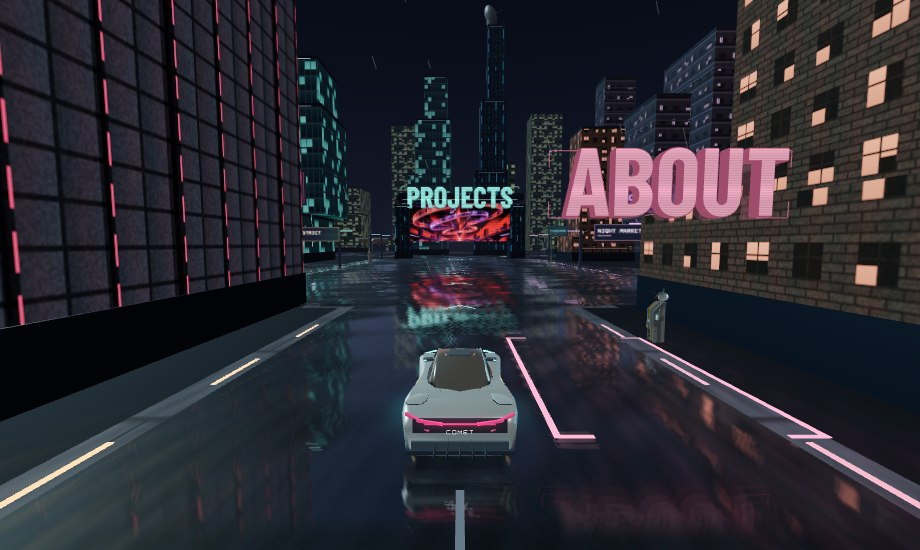
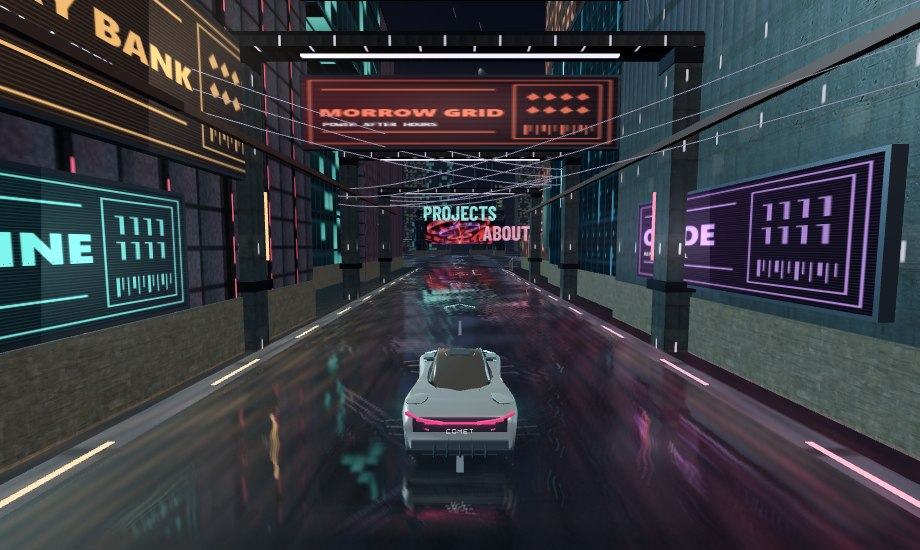
Texture Portfolio City street-level facades

diff --git a/drive/js/portfolio-city.js b/drive/js/portfolio-city.js
@@ -5,8 +5,8 @@
 })(typeof globalThis !== 'undefined' ? globalThis : this, function() {
   'use strict';
 
-  const concreteBump = typeof document !== 'undefined' && document.currentScript?.src
-    ? new URL('../assets/portfolio/concrete-bump.jpg', document.currentScript.src).href : 'assets/portfolio/concrete-bump.jpg';
+  const driveBase = typeof document !== 'undefined' && document.currentScript?.src
+    ? new URL('../', document.currentScript.src).href : '';
   const edge = 211, roadHalfWidth = 11;
   const spawn = {x:0, z:-103, heading:0};
   const routeSamples = [{x:spawn.x, y:0, z:spawn.z, tx:0, tz:1}];
@@ -229,7 +229,57 @@
     return texture;
   }
 
-  function facadeMaterial(THREE,style,grime) {
+  function tileWallMaterial(THREE,material,facade,surface) {
+    if (!facade && !surface) return material;
+    material.customProgramCacheKey = () => `wall:${Boolean(facade)}:${Boolean(surface)}`;
+    material.onBeforeCompile = shader => {
+      const point = 'districtPoint.xy';
+      const facadeUv = `(${point} / districtPeriod)`;
+      let uniforms = '';
+      if (facade) {
+        uniforms += 'uniform vec2 districtPeriod;\n';
+        shader.uniforms.districtPeriod = {value:new THREE.Vector2(facade.width,facade.height)};
+      }
+      if (surface) {
+        uniforms += 'uniform sampler2D districtSurface; uniform vec2 districtSurfacePeriod;\n'
+          + 'uniform vec4 districtSurfaceMix; uniform float districtSurfaceReady;\n';
+        shader.uniforms.districtSurface = {value:surface.texture};
+        shader.uniforms.districtSurfacePeriod = {value:new THREE.Vector2(surface.width,surface.height)};
+        shader.uniforms.districtSurfaceMix = {value:new THREE.Vector4(surface.opacity,surface.fadeStart,surface.fadeEnd,surface.tint)};
+        shader.uniforms.districtSurfaceReady = surface.ready;
+      }
+      shader.vertexShader = `varying vec4 districtPoint;\n${shader.vertexShader}`
+        .replace('#include <uv_vertex>',`#include <uv_vertex>
+          vec3 partSize = vec3(1.0);
+          float baseHeight = modelMatrix[3].y;
+          #ifdef USE_INSTANCING
+            partSize = vec3(length(instanceMatrix[0].xyz),length(instanceMatrix[1].xyz),length(instanceMatrix[2].xyz));
+            baseHeight += instanceMatrix[3].y;
+          #endif
+          bool isWall = abs(normal.y) < .5;
+          vec2 faceSize = isWall ? vec2(abs(normal.x) > .5 ? partSize.z : partSize.x,partSize.y) : partSize.xz;
+          districtPoint = vec4(uv * faceSize, baseHeight + position.y * partSize.y, isWall ? 1.0 : 0.0);`);
+      shader.fragmentShader = `varying vec4 districtPoint;\n${uniforms}${shader.fragmentShader}`;
+      if (facade) {
+        shader.fragmentShader = shader.fragmentShader
+          .replace('#include <map_fragment>',THREE.ShaderChunk.map_fragment.replace('vUv',facadeUv))
+          .replace('#include <emissivemap_fragment>',THREE.ShaderChunk.emissivemap_fragment.replace('vUv',facadeUv))
+          .replace('#include <bumpmap_pars_fragment>',THREE.ShaderChunk.bumpmap_pars_fragment.replace(/\bvUv\b/g,`(${facadeUv} * 4.8)`));
+      }
+      if (surface) {
+        // Blend the cladding into the wall color before lighting.
+        // Upper windows keep their own independent emissive pattern.
+        shader.fragmentShader = shader.fragmentShader.replace('#include <color_fragment>',`#include <color_fragment>
+          vec3 cladding = sRGBToLinear(texture2D(districtSurface, ${point} / districtSurfacePeriod)).rgb;
+          float heightBlend = 1.0 - smoothstep(districtSurfaceMix.y,districtSurfaceMix.z,districtPoint.z);
+          float claddingBlend = districtSurfaceMix.x * districtSurfaceReady * districtPoint.w * heightBlend;
+          diffuseColor.rgb = mix(diffuseColor.rgb,cladding * districtSurfaceMix.w,claddingBlend);`);
+      }
+    };
+    return material;
+  }
+
+  function facadeMaterial(THREE,style,grime,surface) {
     const facade = facades[style];
     const size = 128, bytes = size*size*4;
     const diffuse = new Uint8Array(bytes), emission = new Uint8Array(bytes);
@@ -307,24 +357,8 @@
     const material = new THREE.MeshStandardMaterial({map:repeatedTexture(THREE,diffuse,size),
       emissiveMap:repeatedTexture(THREE,emission,size),emissive:0xffffff,emissiveIntensity:1.1,
       roughness:facade.roughness,metalness:.21,bumpMap:grime,bumpScale:.045});
-    // Repeat material details in world metres so a small storefront and a tower
-    // can share an instanced material without either one stretching its windows.
-    material.onBeforeCompile = shader => {
-      shader.uniforms.districtPeriod = {value:new THREE.Vector2(facade.width,facade.height)};
-      shader.vertexShader = `varying vec2 districtUv; uniform vec2 districtPeriod;\n${shader.vertexShader}`
-        .replace('#include <uv_vertex>',`#include <uv_vertex>
-          vec3 partSize = vec3(1.0);
-          #ifdef USE_INSTANCING
-            partSize = vec3(length(instanceMatrix[0].xyz),length(instanceMatrix[1].xyz),length(instanceMatrix[2].xyz));
-          #endif
-          vec2 faceSize = abs(normal.y) > .5 ? partSize.xz : vec2(abs(normal.x) > .5 ? partSize.z : partSize.x,partSize.y);
-          districtUv = uv * faceSize / districtPeriod;`);
-      shader.fragmentShader = `varying vec2 districtUv;\n${shader.fragmentShader}`
-        .replace('#include <map_fragment>',THREE.ShaderChunk.map_fragment.replace('vUv','districtUv'))
-        .replace('#include <emissivemap_fragment>',THREE.ShaderChunk.emissivemap_fragment.replace('vUv','districtUv'))
-        .replace('#include <bumpmap_pars_fragment>',THREE.ShaderChunk.bumpmap_pars_fragment.replace(/\bvUv\b/g,'(districtUv * 4.8)'));
-    };
-    return material;
+    // Repeat every tile in world metres so one material fits buildings of different sizes.
+    return tileWallMaterial(THREE,material,facade,surface);
   }
 
   function surfaceTexture(THREE,slabs) {
@@ -528,15 +562,42 @@
       }
     }
 
-    const grime = typeof document === 'undefined' ? null : new THREE.TextureLoader().load(concreteBump);
+    const loader = typeof document === 'undefined' ? null : new THREE.TextureLoader();
+    const wallTextures = [];
+    let disposed = false;
+    function loadWallTexture(file,{width,height,opacity,fadeStart=3.5,fadeEnd=7.5,tint}) {
+      if (!loader) return null;
+      const ready = {value:0};
+      const texture = loader.load(driveBase+'assets/portfolio-type/'+file,loaded => {
+        if (disposed) loaded.dispose();
+        else ready.value = 1;
+      });
+      texture.name = file;
+      texture.wrapS = texture.wrapT = THREE.RepeatWrapping;
+      wallTextures.push(texture);
+      return {texture,ready,width,height,opacity,fadeStart,fadeEnd,tint};
+    }
+    const grime = loader?.load(driveBase+'assets/portfolio/concrete-bump.jpg') || null;
     if (grime) grime.wrapS = grime.wrapT = THREE.RepeatWrapping;
-    const facadeMaterials = facades.map((_,style) => facadeMaterial(THREE,style,grime));
+    const boardConcrete = loadWallTexture('board-concrete.webp',{width:2.8,height:2.3,opacity:.88,tint:.66});
+    const servicePanels = loadWallTexture('service-panels.webp',{
+      width:4.8,height:3.7,opacity:.81,fadeStart:7.5,fadeEnd:15,tint:.74
+    });
+    const marketTile = loadWallTexture('market-tile.webp',{width:1.85,height:1.15,opacity:.89,tint:.68});
+    const concreteFooting = tileWallMaterial(THREE,
+      new THREE.MeshStandardMaterial({color:surfaceColor(0x44434a),roughness:.91}),null,boardConcrete);
+    const marketFooting = tileWallMaterial(THREE,
+      new THREE.MeshStandardMaterial({color:surfaceColor(0x554947),roughness:.68}),null,marketTile);
+    const facadeMaterials = facades.map((_,style) => facadeMaterial(THREE,style,grime,
+      style===3 || style===5 ? servicePanels : null));
     for (const [index,b] of buildings.entries()) {
       const {name,light:color}=facades[b.style];
       instance('portfolio-building-'+name,facadeMaterials[b.style],b.x,b.baseY+b.height/2,b.z,b.width,b.height,b.depth);
       const detailed = b.detail && b.width > 3;
       if (detailed && !b.baseY) {
-        instance('portfolio-footings',materials.steel,b.x,1.1,b.z,b.width+.16,2.2,b.depth+.18);
+        const tiledMarket = b.style===1 || (b.style===2 && b.x<0 && b.z<55);
+        const footingName = tiledMarket ? 'portfolio-market-tile-footings' : 'portfolio-board-concrete-footings';
+        instance(footingName,tiledMarket ? marketFooting : concreteFooting,b.x,1.1,b.z,b.width+.16,2.2,b.depth+.18);
         if (b.style===1 || b.style===2 || b.style===7) {
           for (const side of [-1,1]) {
             instance('portfolio-shop-awnings',b.style===1 ? materials.copper : materials.metal,b.x,3.3,b.z+side*(b.depth/2+.65),b.width*.89,.46,1.7);
@@ -676,7 +737,11 @@
       rainGeometry.attributes.position.needsUpdate=true;
     }
     update({position:spawn},0);
-    return {update};
+    function dispose() {
+      disposed = true;
+      for (const texture of wallTextures) texture.dispose();
+    }
+    return {update,dispose};
   }
 
   return {edge, roadHalfWidth, spawn, routeSamples, stops, buildings, networkRoads, highwaySegments,

diff --git a/drive/credits.html b/drive/credits.html
@@ -6,7 +6,7 @@
 <a href="./">← Back to driving</a>
 <h1>Model credits</h1>
 <h2>Portfolio City</h2>
-<p>Street props by Quaternius include models from the <a href="https://quaternius.com/packs/cyberpunkgamekit.html">Cyberpunk Game Kit</a>. The asphalt and concrete textures come from <a href="https://polyhaven.com/">Poly Haven</a>. These models and textures are CC0. See the <a href="assets/portfolio/SOURCE.md">asset sources</a> and <a href="assets/portfolio-type/SOURCE.md">display art and type credits</a>.</p>
+<p>Street props by Quaternius include models from the <a href="https://quaternius.com/packs/cyberpunkgamekit.html">Cyberpunk Game Kit</a>. The asphalt color and concrete bump maps come from <a href="https://polyhaven.com/">Poly Haven</a>. These models and textures are CC0. See the <a href="assets/portfolio/SOURCE.md">asset sources</a> and the <a href="assets/portfolio-type/SOURCE.md">display art, wall textures and type credits</a>.</p>
 <h2>Garage cars</h2>
 <p>This work is based on <a href="https://sketchfab.com/3d-models/generic-passenger-car-pack-20f9af9b8a404d5cb022ac6fe87f21f5">“Generic passenger car pack”</a> by <a href="https://sketchfab.com/comrade1280">Comrade1280</a>, licensed under <a href="https://creativecommons.org/licenses/by/4.0/">Creative Commons Attribution 4.0 International (CC BY 4.0)</a>.</p>
 <ul><li>Comet uses Coupe.</li><li>Rally uses Hatchback.</li><li>Pickup uses Pickup.</li><li>Hypercar uses Sport.</li></ul>

diff --git a/index.html b/index.html
@@ -33,7 +33,7 @@
           <p>Explore the neon portfolio city or race ghosts on the stunt course.</p>
           <span class="featured-action">Play the game <span aria-hidden="true">→</span></span>
         </div>
-        <div class="featured-media"><img src="drive/assets/city-preview.jpg?v=3" width="920" height="550" alt=""></div>
+        <div class="featured-media"><img src="drive/assets/city-preview.jpg?v=4" width="920" height="550" alt=""></div>
       </a>
 
       <ul class="project-list">

diff --git a/drive/index.html b/drive/index.html
@@ -68,7 +68,7 @@
   <script src="js/u9-xtreme-asset.js?v=2"></script>
   <script src="js/vendor/cannon.min.js"></script>
   <script src="js/city.js?v=1"></script>
-  <script src="js/portfolio-city.js?v=3"></script>
+  <script src="js/portfolio-city.js?v=4"></script>
   <script src="js/portfolio-play.js?v=1"></script>
   <script src="js/portfolio-holograms.js?v=1"></script>
   <script src="js/portfolio-wet.js?v=1"></script>

diff --git a/drive/assets/portfolio-type/SOURCE.md b/drive/assets/portfolio-type/SOURCE.md
@@ -1,7 +1,23 @@
-# Portfolio display assets
+# Portfolio display art and surface textures
 
 `display.json` is an uppercase and digit subset of Barlow Condensed Bold by Jeremy Tribby. The outlines were converted to Three.js typeface format and renamed Portfolio Display. The [original font and license](https://github.com/google/fonts/tree/main/ofl/barlowcondensed) are distributed under the SIL Open Font License 1.1. See `OFL.txt`.
 
 `district-display.webp` was made with the built-in ImageGen tool. The image was encoded as WebP at 1024 pixels wide for the game.
 
 > Use case: stylized-concept. Asset type: wide landscape illustration for an LED billboard in a browser game's original cyberpunk city. Create a striking graphic illustration of three translucent architectural rings orbiting a dark suspended crystal data core above a night-time transit concourse, like an abstract promotional screen for a futuristic district. Deep ink-black background, hot vermilion and coral as the main colors, electric violet interference and tiny icy white highlights. Editorial graphic design with sharp layered print textures, halftone lines, high-contrast silhouettes and signal distortion contained in the composition. One clear central focal shape that reads from across a street. Leave the outer 8 percent dark for cropping and use a wide cinematic composition. Fill the frame with the billboard art itself, with no physical frame or environment mockup. No words, characters, brand logos, watermark, or reference to an existing game.
+
+## Surface textures
+
+The three wall textures were created with the built-in ImageGen tool and encoded as 768 × 768 WebP tiles. Portfolio City lights these color maps in the scene.
+
+### `board-concrete.webp`
+
+> Use case: photorealistic-natural. Asset type: repeating albedo texture for a browser 3D game in a dense near-future city. Create a square perfectly seamless edge-to-edge tile of aging exposed board-formed concrete at the base of a high-rise. Flat straight-on orthographic scan of the bare wall surface, with worn gray-brown cement, pores and small aggregate, irregular formwork grain, a few faint mineral streaks, occasional fastener holes and scuffed patches. The whole frame is material with an even distribution. Moderate texture contrast, good readable broad and small detail, muted desaturated neutral stone palette. Uniform diffuse illumination for an albedo map. Match opposite edges seamlessly. No view of a room or street, perspective, framing edges, drop shadows, dark corners, pools of light, writing, decals, cast shadow or watermark.
+
+### `service-panels.webp`
+
+> Use case: photorealistic-natural. Asset type: repeating albedo texture for a browser 3D game in a dense near-future city. Create a square, perfectly seamless tile of battered industrial service panels for the lower levels of a city megastructure. Flat orthographic straight-on scan, four equal broad blue-gray painted steel maintenance plates in a neat two-by-two grid with quiet thin aligned grooves, occasional flush screws, shallow scuffs, dirty rain runnels and sparse chipped paint on the edges. A few mismatched gray repair patches. Low to medium contrast with readable material wear and no dominant single stain. Match opposite edges and align the center seam with equally thin seams wrapping at the tile boundaries. Muted stormy charcoal and dusty steel blue, evenly lit diffuse albedo with zero lighting gradient. Full bleed, no borders or separate background. No text, numbers, caution stripes, brand marks, perspective, cast shadows, specular reflections, or illustrations.
+
+### `market-tile.webp`
+
+> Use case: photorealistic-natural. Asset type: repeating albedo texture for a browser 3D game in a dense near-future city. Square perfectly seamless texture of stained rectangular ceramic tile straight on, the facade of a decades-old underground market entrance near the street. Small subway-format tiles in even running bond, around eight rows tall and around five tiles wide. Muted dingy desaturated bone, soot gray, subtle old olive, with a few replacement tiles very slightly lighter. Uneven three-decade accumulation of faint grime in grout, subtle mineral stains, small glaze chips and rough speckling. Tone and scale consistent across the image. Match top/bottom and left/right grout and colors seamlessly. Flat orthographic close-up material scan fills the frame. Even diffuse light and medium-low contrast. No highlights or directional shadows baked into the image, no floor horizon, loose pieces, lettering, labels or framing.

diff --git a/drive/README.md b/drive/README.md
@@ -29,7 +29,7 @@ Open **Records** in Ghost Challenge on the stunt course. **Copy race link** shar
 
 Portfolio City has a flat collision plane beneath its roads and jump ramp. Mountain and racetrack retain 200 m half-width boundaries. The mountain road follows its heightfield triangle sampler. Changing maps resets onto the selected route. Changing cars preserves position and orientation while stopping momentum. World geometry, materials, and textures are disposed on rebuild.
 
-Portfolio City uses a planar reflection pass for signs, buildings, and cars in the asphalt. Its Comet Night edition has original bodywork and uses the Comet driving setup. See the [model and texture sources](assets/portfolio/SOURCE.md) and [display art and type](assets/portfolio-type/SOURCE.md).
+Portfolio City uses a planar reflection pass for signs, buildings, and cars in the asphalt. Weathered concrete, painted steel, and ceramic tiles add detail to the lower walls. Its Comet Night edition has original bodywork and uses the Comet driving setup. See the [model and texture sources](assets/portfolio/SOURCE.md) and [display art, wall textures, and type](assets/portfolio-type/SOURCE.md).
 
 ## Imported city
 
